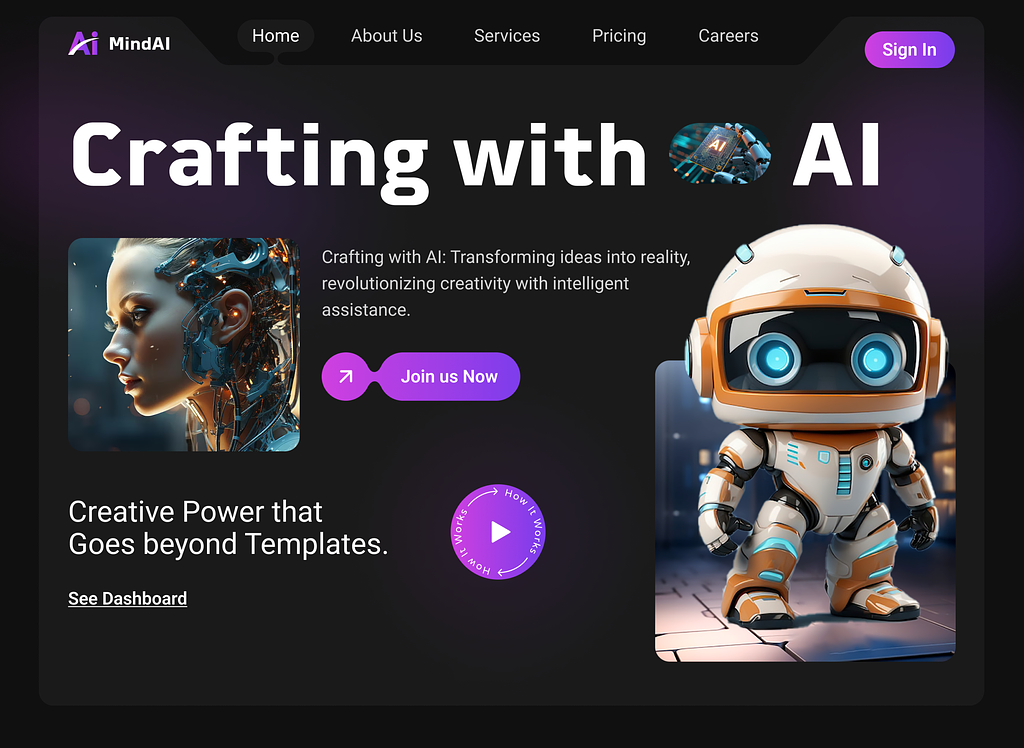
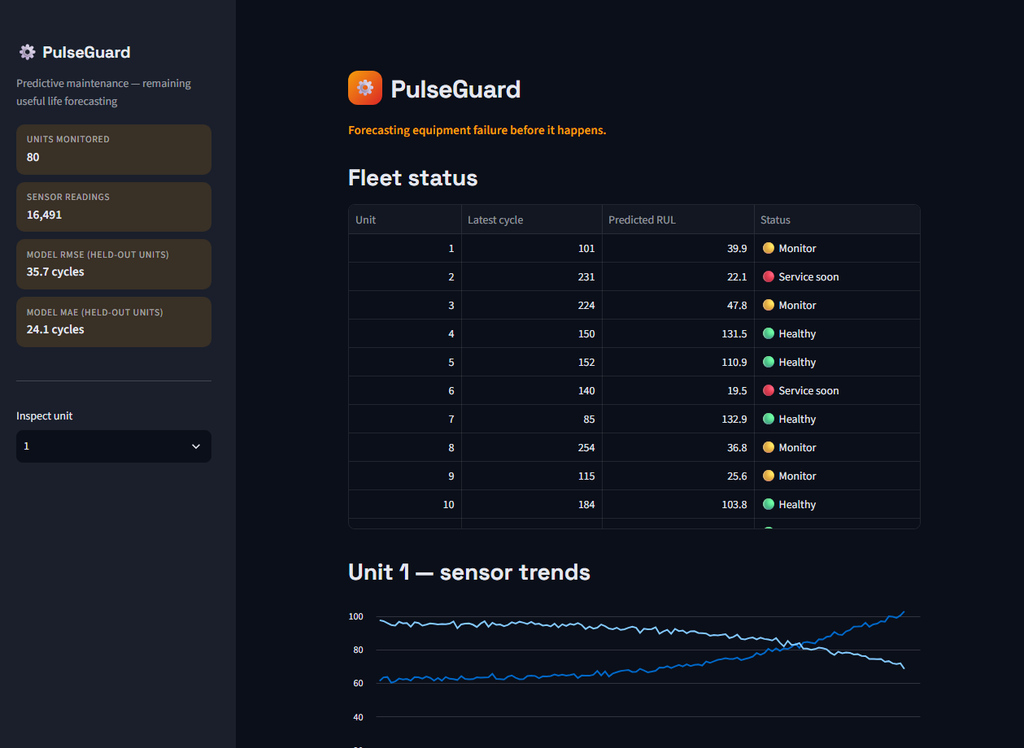
Add PulseGuard project card
Replace Project 1 placeholder with the completed PulseGuard predictive
maintenance dashboard, linked to its repo, with a real screenshot.

diff --git a/index.html b/index.html
@@ -113,13 +113,13 @@
       <div class="project-card">
         <img src="project1.png" alt="">
 
-        <h3>Project 1</h3>
+        <h3>PulseGuard</h3>
 
-        <p>Industrial Predictive Maintenance System (Time-Series Forecasting): A machine learning model that
-          analyzes historical sensor data (like temperature, vibration, or pressure) to predict when a piece of
-          machinery will fail — valuable for any organization that relies on monitoring critical infrastructure at
-          scale.</p>
-        <div class="btn">View Project</div>
+        <p>A predictive maintenance dashboard that forecasts equipment Remaining Useful Life (RUL) from sensor data
+          (temperature, vibration, pressure) using a gradient boosting model, evaluated on machines never seen during
+          training. Built for any organization that relies on monitoring critical infrastructure at scale, where
+          catching wear early beats reacting to a breakdown.</p>
+        <a href="https://github.com/AhmedWalidBarakat/PulseGuard" target="_blank" class="btn">View Project</a>
       </div>
 
       <div class="project-card">
